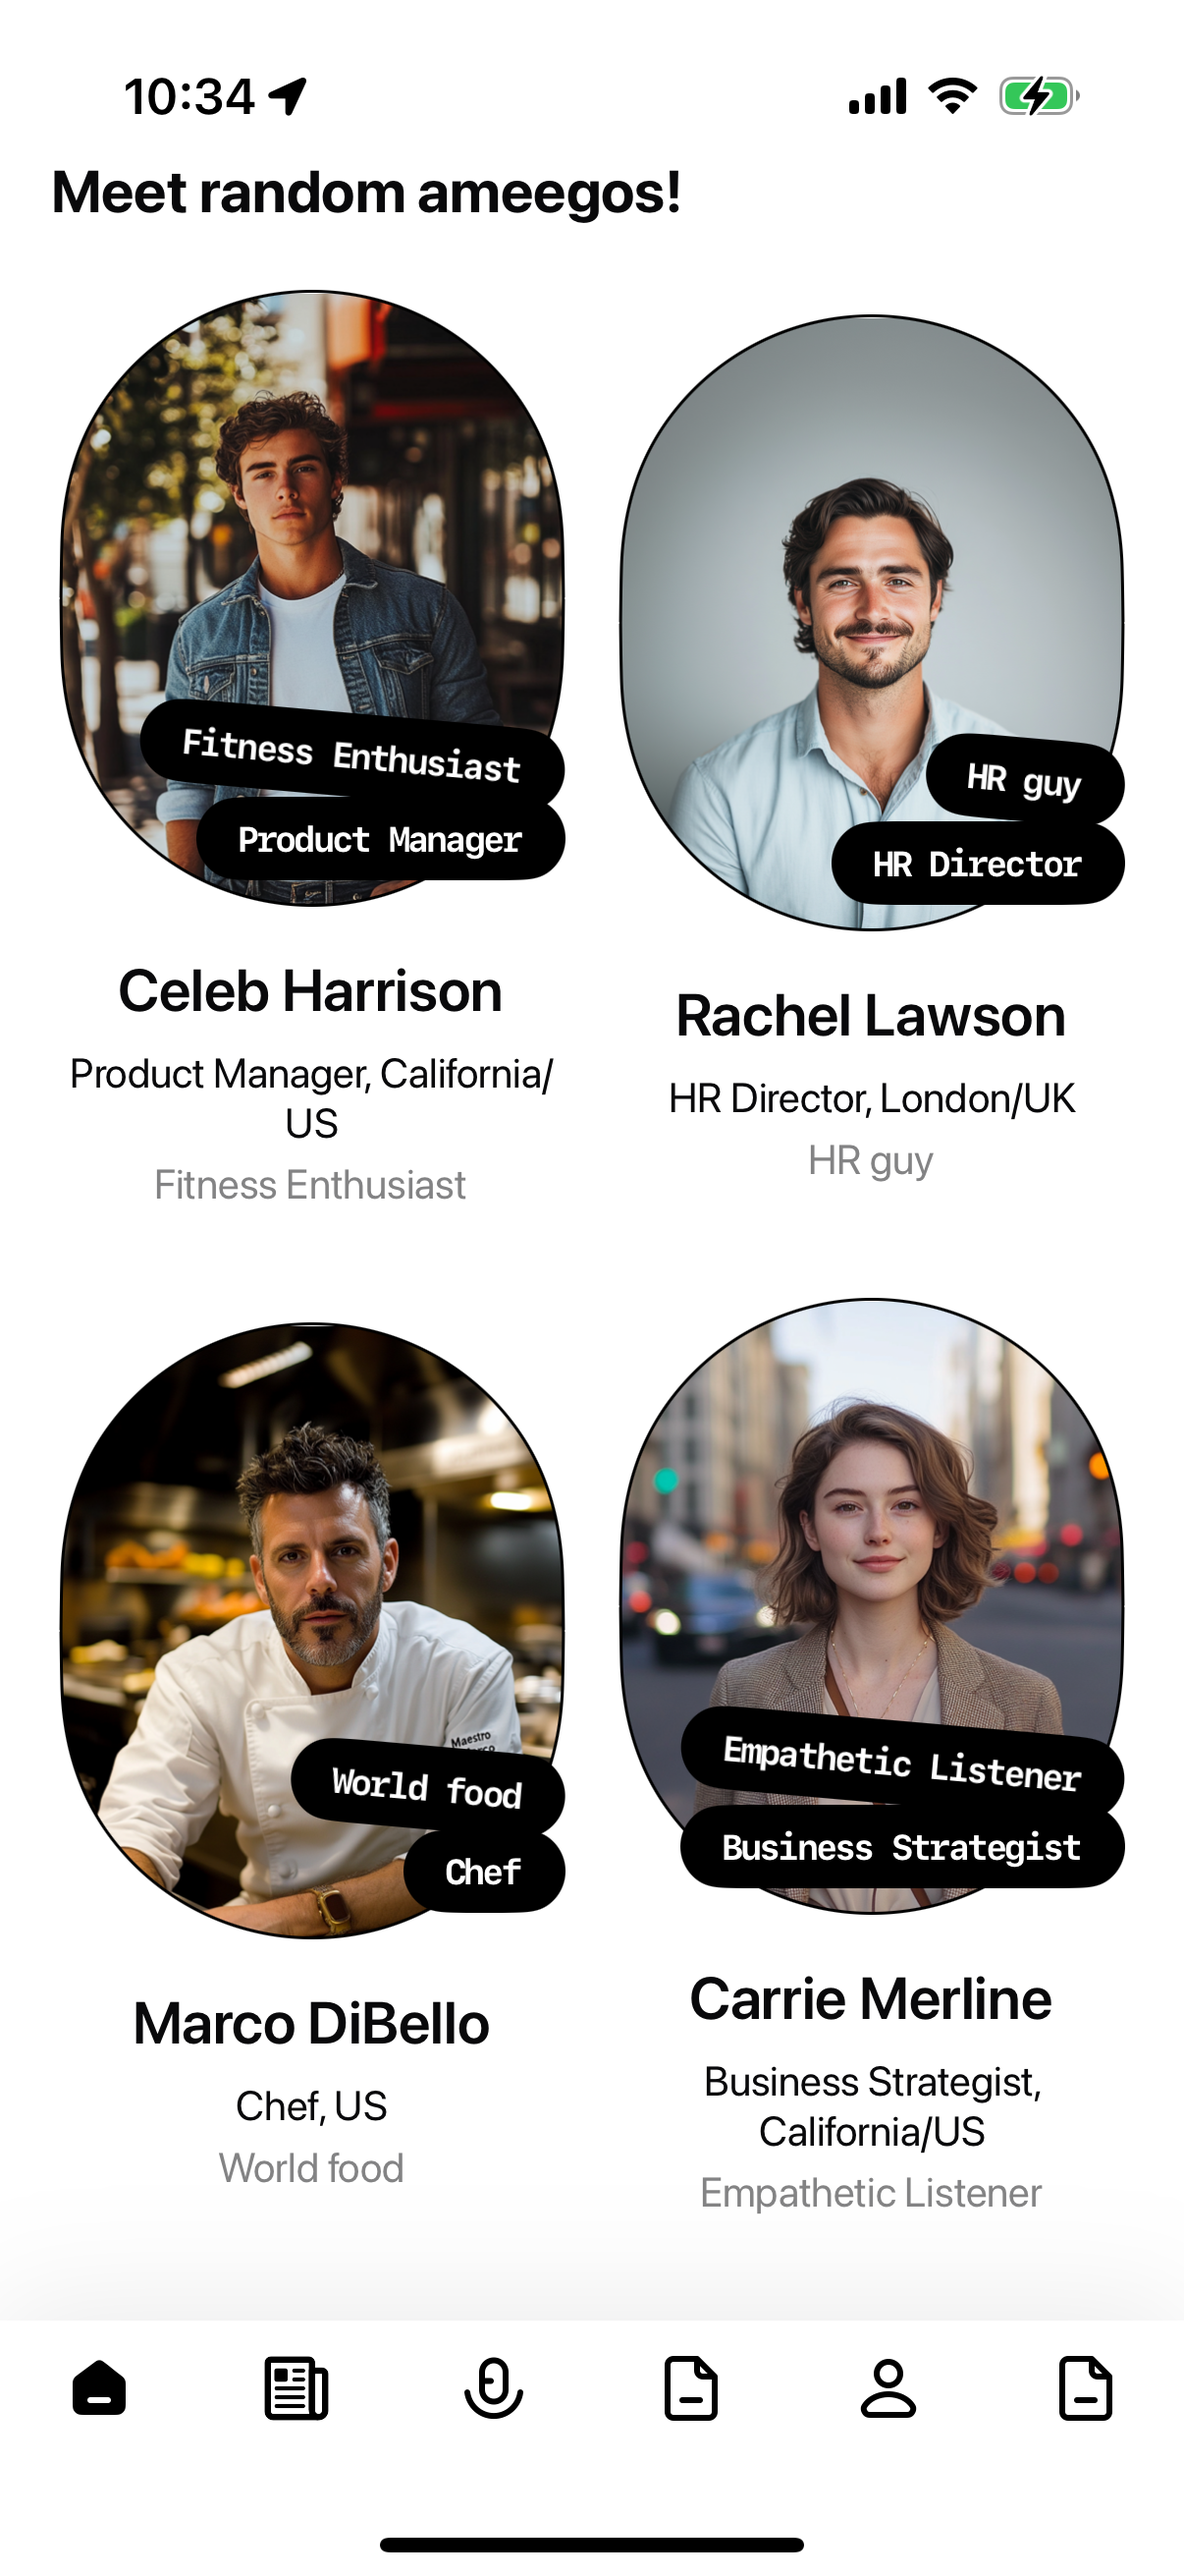
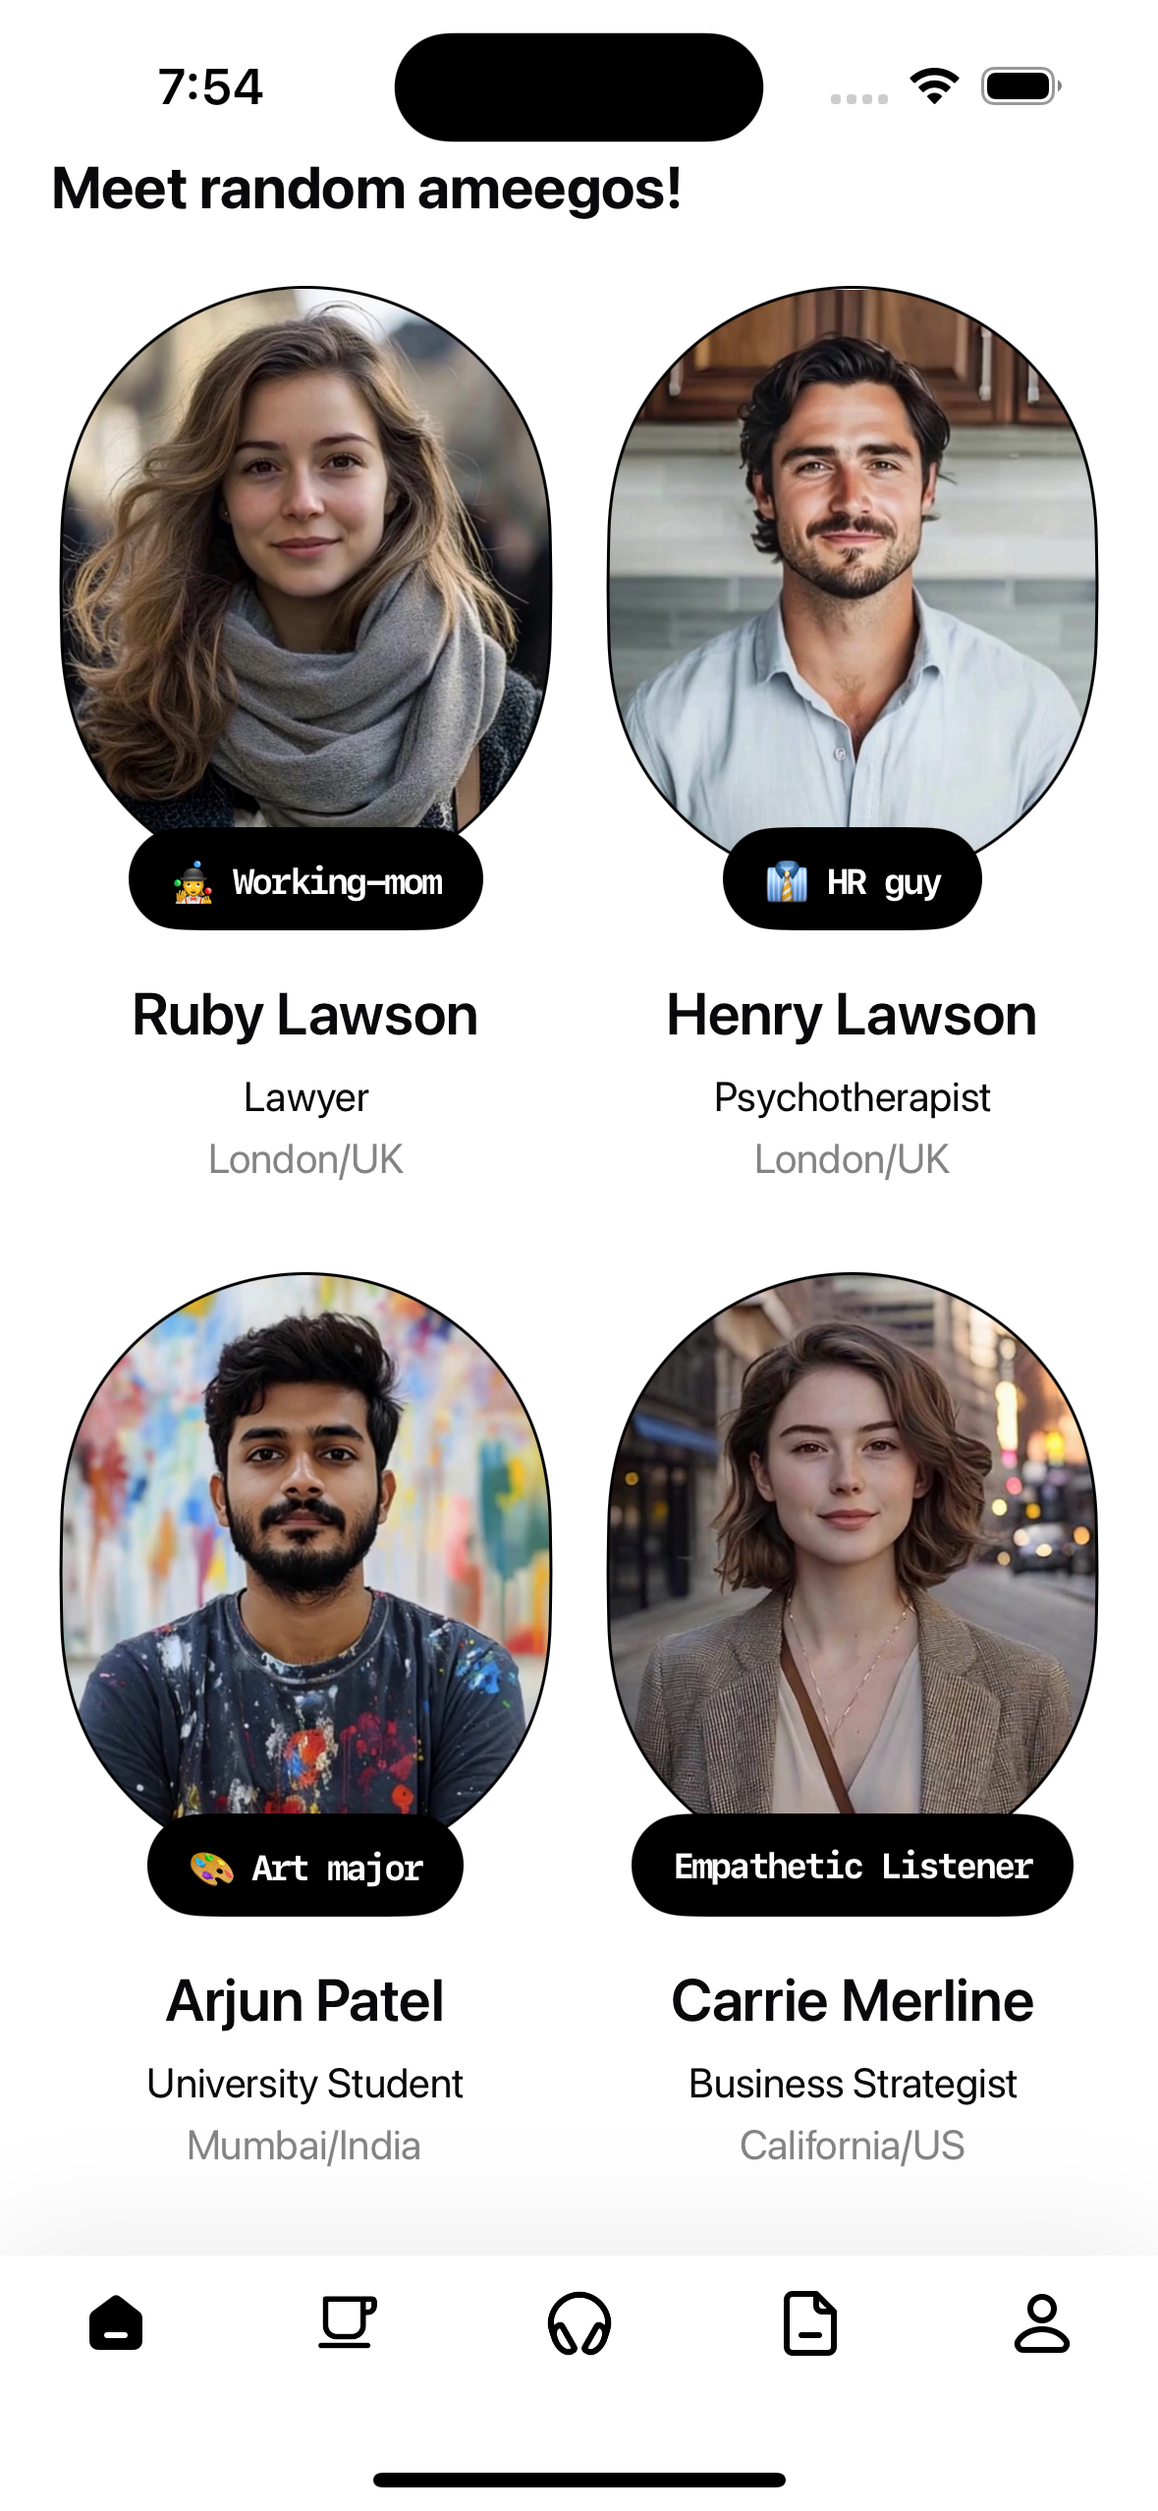
Change images

diff --git a/src/components/SecondHero.tsx b/src/components/SecondHero.tsx
@@ -1,5 +1,7 @@
 "use client";
 
+import Image from "next/image";
+
 export default function SecondHero() {
   return (
     <div>
@@ -73,46 +75,56 @@ export default function SecondHero() {
             <div className="mt-14 flex justify-end gap-8 sm:-mt-44 sm:justify-start sm:pl-20 lg:mt-0 lg:pl-0">
               <div className="ml-auto w-44 flex-none space-y-8 pt-32 sm:ml-0 sm:pt-80 lg:order-last lg:pt-36 xl:order-none xl:pt-80">
                 <div className="relative">
-                  <img
+                  <Image
                     alt=""
                     src="/screenshot_1_2.png"
-                    className="aspect-[2/3] w-full rounded-xl bg-gray-900/5 object-cover shadow-lg"
+                    width={176}
+                    height={380}
+                    className="aspect-[9/19.5] w-full rounded-xl bg-gray-900/5 object-cover shadow-lg"
                   />
                   <div className="pointer-events-none absolute inset-0 rounded-xl ring-1 ring-inset ring-gray-900/10" />
                 </div>
               </div>
               <div className="mr-auto w-44 flex-none space-y-8 sm:mr-0 sm:pt-52 lg:pt-36">
                 <div className="relative">
-                  <img
+                  <Image
                     alt=""
                     src="/screenshot_1_1.png"
-                    className="aspect-[2/3] w-full rounded-xl bg-gray-900/5 object-cover shadow-lg"
+                    width={176}
+                    height={380}
+                    className="aspect-[9/19.5] w-full rounded-xl bg-gray-900/5 object-cover shadow-lg"
                   />
                   <div className="pointer-events-none absolute inset-0 rounded-xl ring-1 ring-inset ring-gray-900/10" />
                 </div>
                 <div className="relative">
-                  <img
+                  <Image
                     alt=""
                     src="/screenshot_1_3.png"
-                    className="aspect-[2/3] w-full rounded-xl bg-gray-900/5 object-cover shadow-lg"
+                    width={176}
+                    height={380}
+                    className="aspect-[9/19.5] w-full rounded-xl bg-gray-900/5 object-cover shadow-lg"
                   />
                   <div className="pointer-events-none absolute inset-0 rounded-xl ring-1 ring-inset ring-gray-900/10" />
                 </div>
               </div>
               <div className="w-44 flex-none space-y-8 pt-32 sm:pt-0">
                 <div className="relative">
-                  <img
+                  <Image
                     alt=""
                     src="/screenshot_1_4.png"
-                    className="aspect-[2/3] w-full rounded-xl bg-gray-900/5 object-cover shadow-lg"
+                    width={176}
+                    height={380}
+                    className="aspect-[9/19.5] w-full rounded-xl bg-gray-900/5 object-cover shadow-lg"
                   />
                   <div className="pointer-events-none absolute inset-0 rounded-xl ring-1 ring-inset ring-gray-900/10" />
                 </div>
                 <div className="relative">
-                  <img
+                  <Image
                     alt=""
                     src="/screenshot_1_5.png"
-                    className="aspect-[2/3] w-full rounded-xl bg-gray-900/5 object-cover shadow-lg"
+                    width={176}
+                    height={380}
+                    className="aspect-[9/19.5] w-full rounded-xl bg-gray-900/5 object-cover shadow-lg"
                   />
                   <div className="pointer-events-none absolute inset-0 rounded-xl ring-1 ring-inset ring-gray-900/10" />
                 </div>

diff --git a/src/components/Gallary.tsx b/src/components/Gallary.tsx
@@ -18,13 +18,13 @@ const blogPosts = [
   {
     id: 3,
     title: "매일 업데이트되는 최신 토픽으로 이야기 나눠요",
-    imageUrl: "/screenshot_1_5.png",
+    imageUrl: "/screenshot_2_3.png",
     name: "Ameego today",
   },
   {
     id: 4,
     title: "다양한 아미고와 자유롭게 대화하세요",
-    imageUrl: "/screenshot_1_2.png",
+    imageUrl: "/screenshot_2_4.png",
     name: "Ameego call",
   },
 ];

diff --git a/src/components/Hero.tsx b/src/components/Hero.tsx
@@ -101,7 +101,7 @@ export default function Hero() {
               transform="translate(24 24)"
             >
               <Image
-                src="/screenshot_hero.jpeg"
+                src="/screenshot_hero.png"
                 alt="App Screenshot"
                 width={316}
                 height={684}
